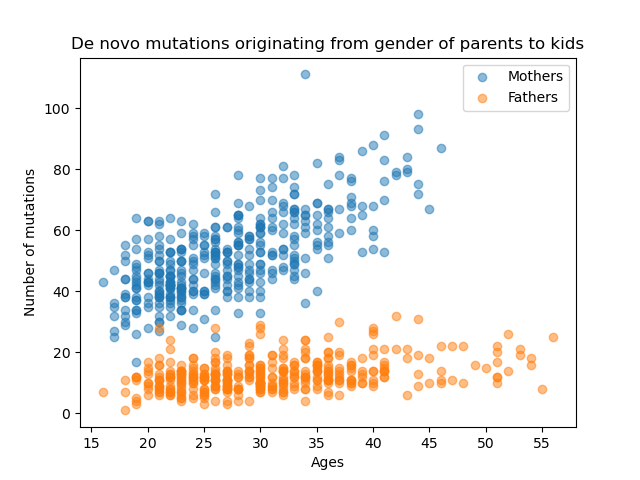
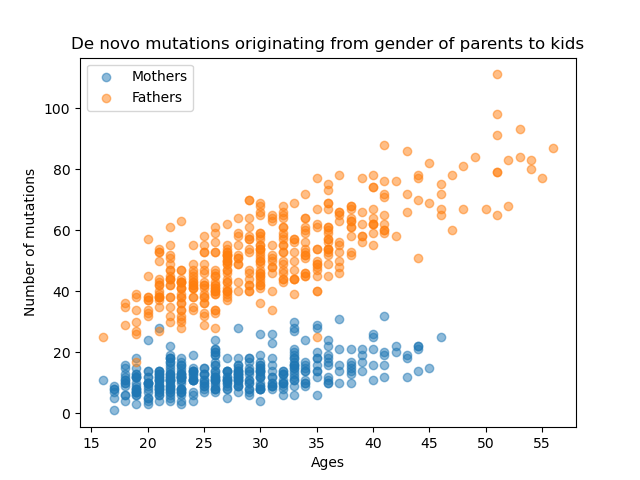
revised graphs and code

diff --git a/day5-lunch/numpy split.py b/day5-lunch/numpy split.py
@@ -4,7 +4,7 @@ import matplotlib.pyplot as plt
 import statsmodels.formula.api as smf
 import statsmodels.stats.weightstats as smw
 
-df = np.genfromtxt("the_final_final.txt", delimiter=" ", dtype=None, encoding=None, names=["proband_ID", "paternal_age", "maternal_age", "paternal_mutations", "maternal_mutations"])
+df = np.genfromtxt("the_final_final.txt", delimiter=" ", dtype=None, encoding=None, names=["proband_ID", "paternal_age", "maternal_age", "maternal_mutations", "paternal_mutations"])
 # fig, ax = plt.subplots()
 # ax.scatter(df["maternal_age"], df["maternal_mutations"], alpha = 0.5, label = "Mothers")
 # ax.scatter(df["paternal_age"], df["paternal_mutations"], alpha = 0.5, label = "Fathers")
@@ -23,7 +23,7 @@ df = np.genfromtxt("the_final_final.txt", delimiter=" ", dtype=None, encoding=No
 # ax.set_title("Paternal and Maternal de novo mutations")
 # fig.savefig("ex2_c.png")
 
-# model = smf.ols(formula = "paternal_mutations ~ 1 + paternal_age", data = df)
+# model = smf.ols(formula = "maternal_mutations ~ 1 + maternal_age", data = df)
 # results = model.fit()
 # print(results.summary())
 
